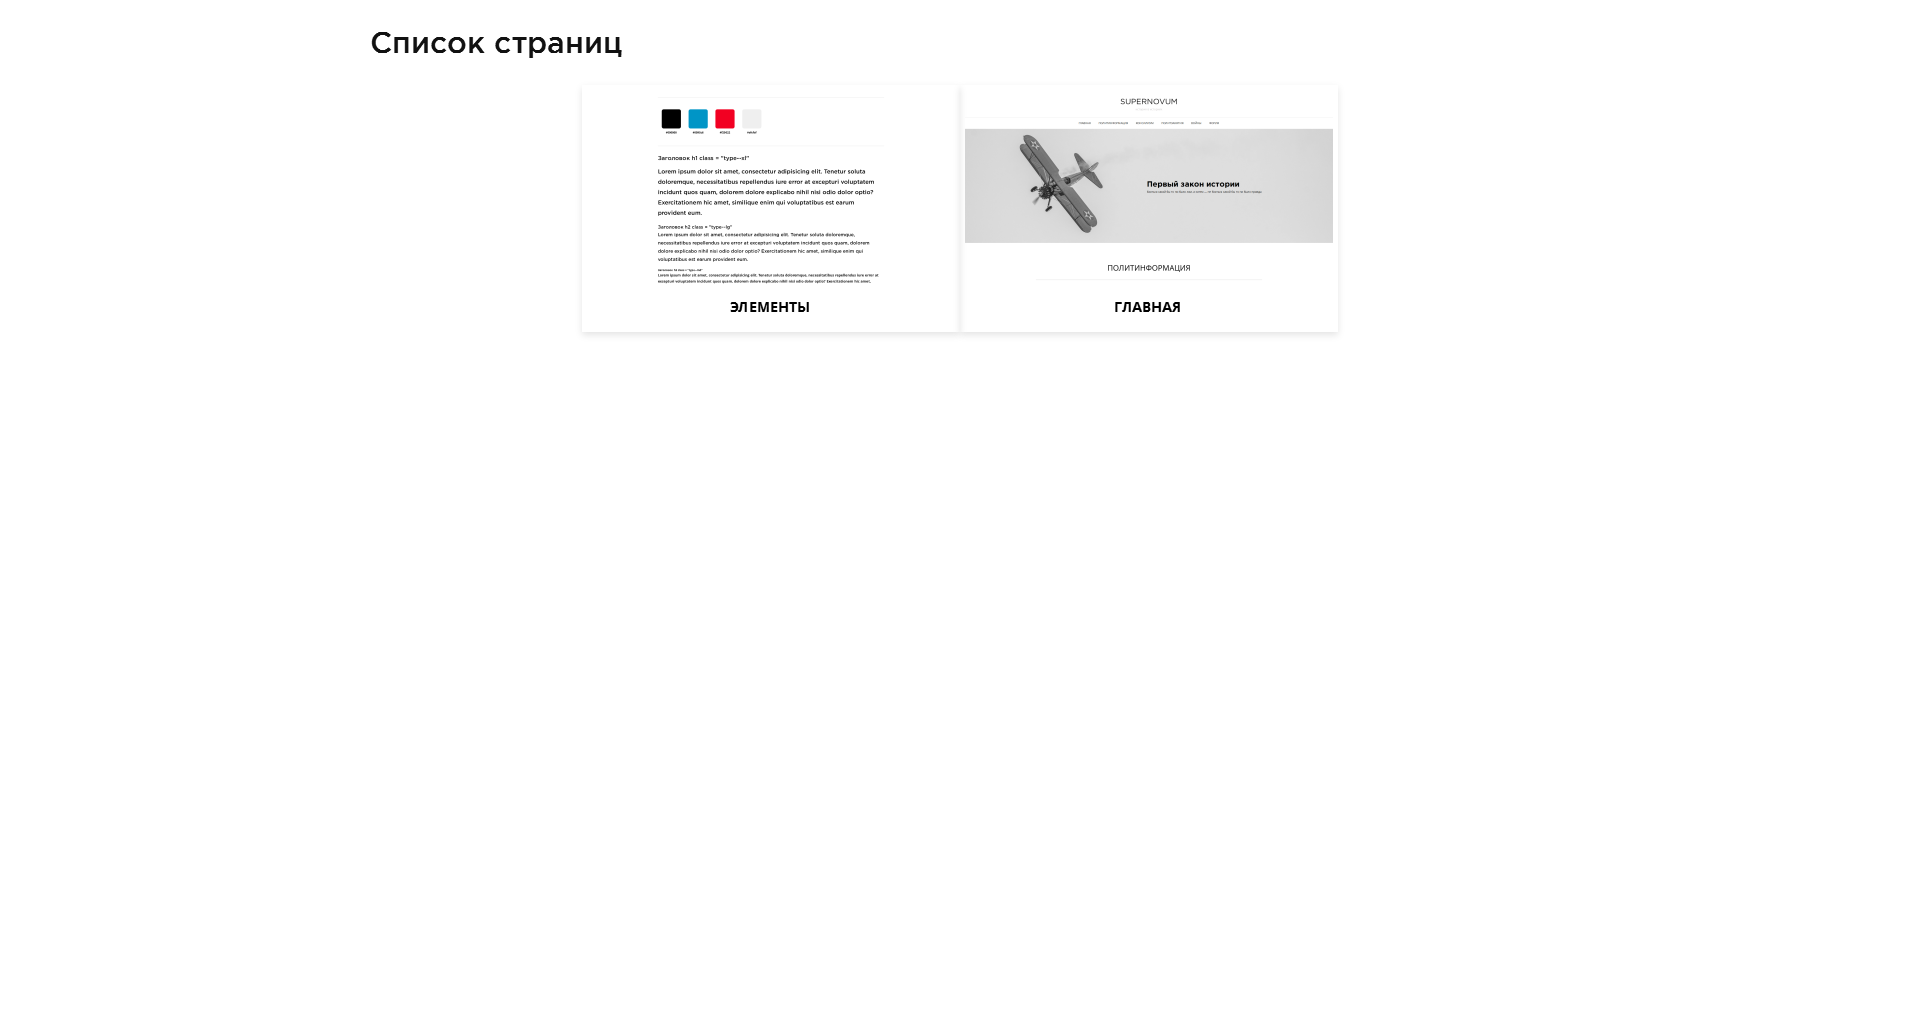
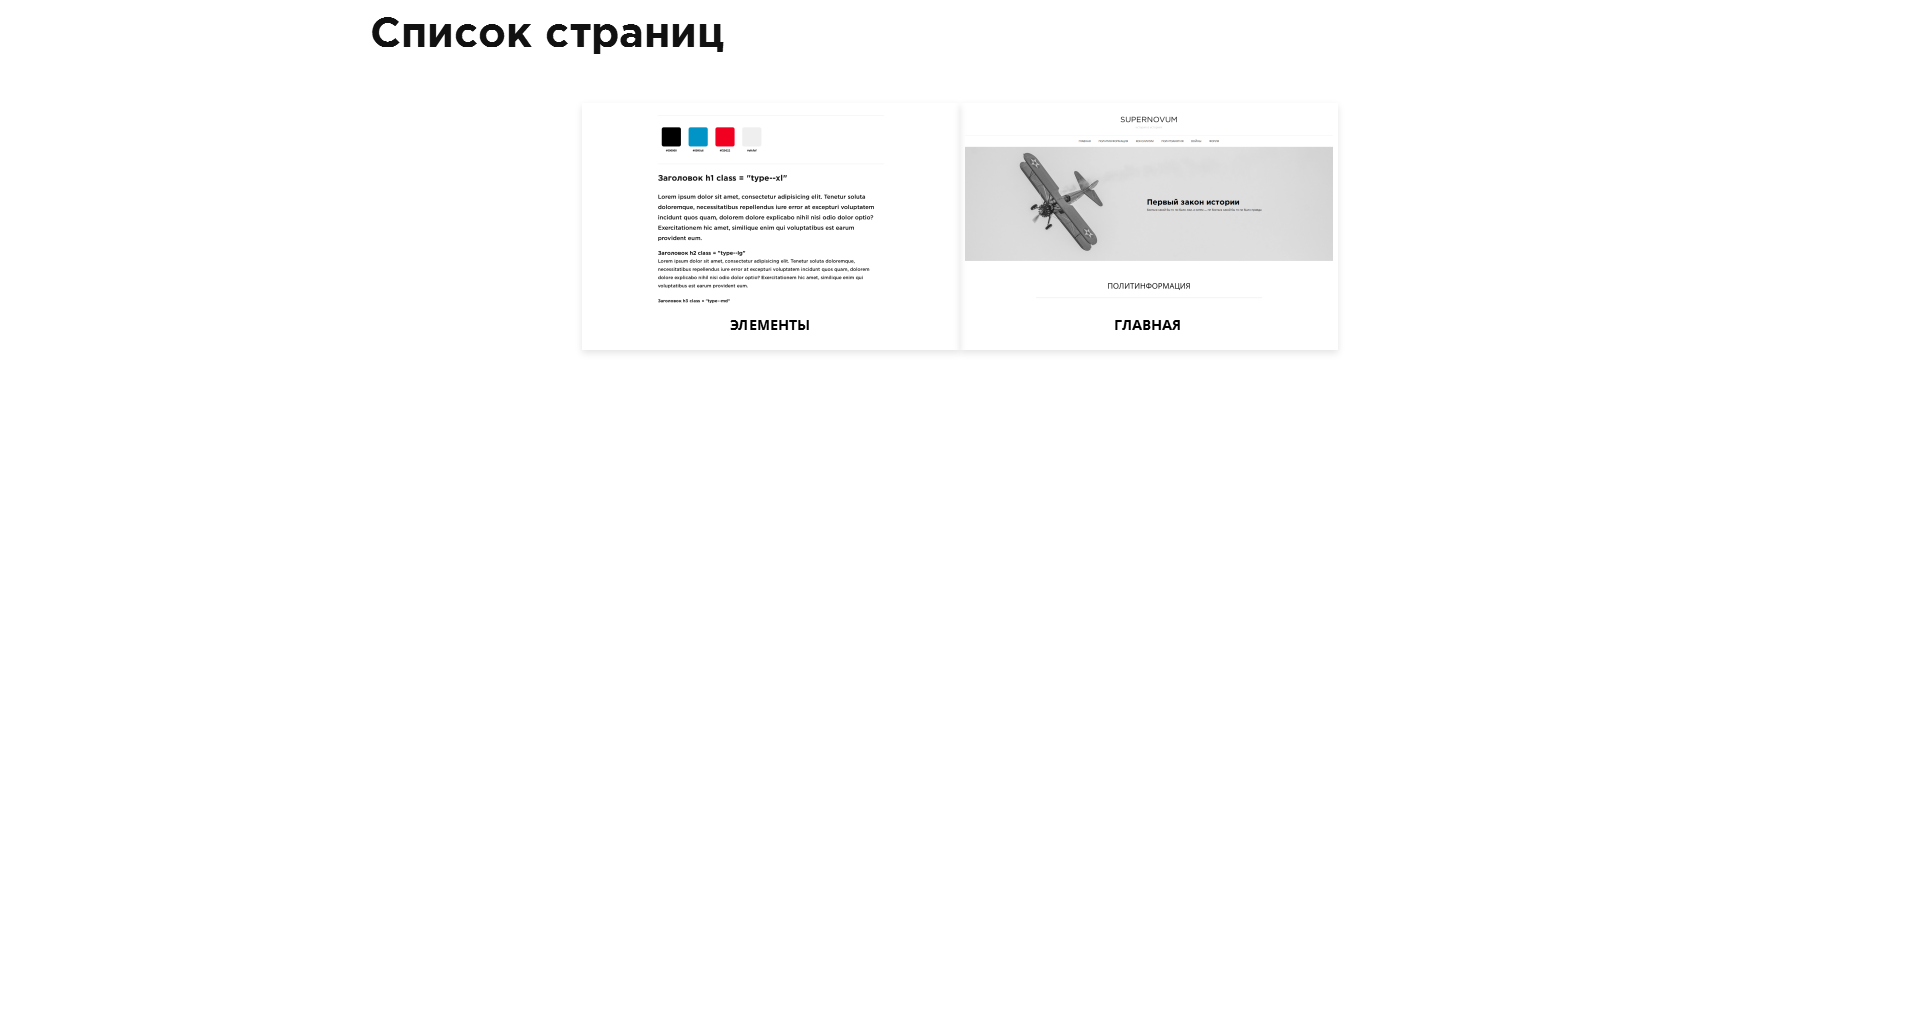
fix top menu

Changed region(s): [[0.5, 0.0938, 0.7188, 0.3438], [0.3438, 0.0938, 0.4688, 0.3438], [0.1875, 0.0, 0.375, 0.0625]]

diff --git a/app/css/style.css b/app/css/style.css
@@ -438,14 +438,12 @@ h4 {
   }
 }
 .type--main,
-h3,
 p,
 body {
   font-size: 14px;
 }
 @media only screen and (max-width: 768px) {
   .type--main,
-  h3,
   p,
   body {
     font-size: 12px;
@@ -459,41 +457,69 @@ body {
     font-size: 15px;
   }
 }
-.type--lg,
-h2 {
+.type--lg {
   font-size: 24px;
   font-weight: 500;
   font-family: "Gotham";
 }
 @media only screen and (max-width: 768px) {
-  .type--lg,
-  h2 {
+  .type--lg {
     font-size: 16px;
   }
 }
-.type--xl,
-h1 {
+.type--xl {
   font-size: 30px;
   font-weight: 500;
   font-family: "Gotham";
 }
 @media only screen and (max-width: 768px) {
-  .type--xl,
-  h1 {
+  .type--xl {
     font-size: 20px;
   }
 }
 .type--bold {
   font-weight: bold;
 }
-h1 {
-  color: #111;
-}
-h2 {
-  color: #111;
-}
+.h,
+h1,
+h2,
 h3 {
   color: #111;
+  margin: 0px;
+  margin-bottom: 40px;
+  font-family: "Gotham";
+}
+@media only screen and (max-width: 768px) {
+  .h,
+  h1,
+  h2,
+  h3 {
+    margin-bottom: 20px;
+  }
+}
+h1 {
+  font-size: 42px;
+}
+@media only screen and (max-width: 768px) {
+  h1 {
+    font-size: 20px;
+  }
+}
+h2 {
+  font-size: 28px;
+}
+@media only screen and (max-width: 768px) {
+  h2 {
+    font-size: 18px;
+  }
+}
+h3 {
+  font-size: 22px;
+}
+@media only screen and (max-width: 768px) {
+  h3 {
+    font-size: 15px;
+  }
 }
 h4 {
   color: #111;
@@ -1262,7 +1288,8 @@ body {
   color: #fff;
   margin-bottom: 40px;
 }
-.forum-filter {
+.forum-filter,
+.header-baner-filter {
   position: absolute;
   top: 0;
   left: 0;
@@ -1326,6 +1353,157 @@ body {
   .footer-title-sub br {
     display: none;
   }
+}
+.content {
+  display: -webkit-box;
+  display: -webkit-flex;
+  display: -ms-flexbox;
+  display: flex;
+  margin-bottom: 80px;
+  -webkit-box-align: start;
+  -webkit-align-items: flex-start;
+      -ms-flex-align: start;
+          align-items: flex-start;
+  -webkit-box-pack: justify;
+  -webkit-justify-content: space-between;
+      -ms-flex-pack: justify;
+          justify-content: space-between;
+}
+@media only screen and (max-width: 768px) {
+  .content {
+    margin: 30px 0;
+  }
+}
+.bread-crumbs-wrap {
+  margin: 40px 0;
+}
+@media only screen and (max-width: 768px) {
+  .bread-crumbs-wrap {
+    margin: 20px 0;
+  }
+}
+.nav-links {
+  display: -webkit-box;
+  display: -webkit-flex;
+  display: -ms-flexbox;
+  display: flex;
+  -webkit-box-pack: center;
+  -webkit-justify-content: center;
+      -ms-flex-pack: center;
+          justify-content: center;
+}
+.page-number,
+.page-numbers {
+  border: 1px solid #dfdfdf;
+  width: 45px;
+  height: 45px;
+  display: -webkit-box;
+  display: -webkit-flex;
+  display: -ms-flexbox;
+  display: flex;
+  -webkit-box-pack: center;
+  -webkit-justify-content: center;
+      -ms-flex-pack: center;
+          justify-content: center;
+  -webkit-box-align: center;
+  -webkit-align-items: center;
+      -ms-flex-align: center;
+          align-items: center;
+  margin-right: 15px;
+  text-align: center;
+}
+@media only screen and (max-width: 768px) {
+  .page-number,
+  .page-numbers {
+    width: 30px;
+    height: 30px;
+  }
+}
+span.page-numbers.current {
+  background: #000;
+  color: #fff;
+  border-color: #111;
+}
+.page-numbers.next,
+.page-numbers.prev {
+  padding: 10px;
+  height: 45px;
+  width: auto !important;
+}
+@media only screen and (max-width: 768px) {
+  .page-numbers.next,
+  .page-numbers.prev {
+    height: 30px;
+  }
+}
+.star__rating img {
+  display: inline-block !important;
+}
+.forum--single {
+  margin-bottom: -100px;
+}
+@media only screen and (max-width: 768px) {
+  .forum--single {
+    margin-bottom: -40px;
+  }
+}
+.content-block {
+  width: 100%;
+}
+.content-block img {
+  -webkit-filter: grayscale(100%);
+          filter: grayscale(100%);
+  margin: 20px auto;
+}
+.content-block p {
+  font-size: 16px;
+  margin-bottom: 40px;
+}
+@media only screen and (max-width: 768px) {
+  .content-block p {
+    font-size: 14px;
+    margin-bottom: 20px;
+  }
+}
+.header-baner {
+  display: -webkit-box;
+  display: -webkit-flex;
+  display: -ms-flexbox;
+  display: flex;
+  -webkit-box-pack: center;
+  -webkit-justify-content: center;
+      -ms-flex-pack: center;
+          justify-content: center;
+  -webkit-box-align: center;
+  -webkit-align-items: center;
+      -ms-flex-align: center;
+          align-items: center;
+  background: url("../img/baner-2.jpg") no-repeat;
+  background-size: cover;
+  background-repeat: no-repeat;
+  background-position: center center;
+  -webkit-filter: grayscale(100%);
+          filter: grayscale(100%);
+  position: relative;
+  padding: 18% 10px;
+  width: 100%;
+  background-attachment: fixed;
+}
+.header-baner h1 {
+  color: #fff;
+  z-index: 10;
+  text-transform: uppercase;
+  margin-bottom: 0;
+  text-align: center;
+}
+.footer-single .footer {
+  margin-top: 0;
+}
+.footer-single .forum {
+  margin-bottom: 0;
+}
+.catalog {
+  margin-top: 80px;
 }
 /* block footer*/
 /*block footer end */

diff --git a/app/elements.html b/app/elements.html
@@ -24,7 +24,6 @@
 		<!--endbuild-->
 		<link rel="stylesheet" href="css/style.css" />
 		<link rel="stylesheet" href="css/style-edit.css" />
-		<link href="https://fonts.googleapis.com/css?family=PT+Sans:400,700&amp;amp;subset=cyrillic" rel="stylesheet" />
 	</head>
 	<!-- mixin nameMixin()-->
 	<!-- - var args = Array.prototype.slice.call(arguments)-->

diff --git a/app/index.html b/app/index.html
@@ -24,7 +24,6 @@
 		<!--endbuild-->
 		<link rel="stylesheet" href="css/style.css" />
 		<link rel="stylesheet" href="css/style-edit.css" />
-		<link href="https://fonts.googleapis.com/css?family=PT+Sans:400,700&amp;amp;subset=cyrillic" rel="stylesheet" />
 	</head>
 	<!-- mixin nameMixin()-->
 	<!-- - var args = Array.prototype.slice.call(arguments)-->

diff --git a/app/main.html b/app/main.html
@@ -24,7 +24,6 @@
 		<!--endbuild-->
 		<link rel="stylesheet" href="css/style.css" />
 		<link rel="stylesheet" href="css/style-edit.css" />
-		<link href="https://fonts.googleapis.com/css?family=PT+Sans:400,700&amp;amp;subset=cyrillic" rel="stylesheet" />
 	</head>
 	<!-- mixin nameMixin()-->
 	<!-- - var args = Array.prototype.slice.call(arguments)-->

diff --git a/app/js/script.js b/app/js/script.js
@@ -11,8 +11,12 @@ $(document).ready(function(){
 		$(document).on("click", function () {
 				$(toggleEl).hide();
 		});
+	};
+
+	if($(window).width() < 768){
+		hideToggle('.menu-toggle','.menu-cont');
 	}
-	hideToggle('.menu-toggle','.menu-cont');
+
 
 	/* ###### For only ies  ######*/
 	//if(/MSIE \d|Trident.*rv:/.test(navigator.userAgent)){

diff --git a/gulpfile.js b/gulpfile.js
@@ -454,8 +454,8 @@ gulp.task('build:ftp',function(){
 				'copy:css',
 				'min:css',
 				'min:js',
-				'screenshot',
-				'img',
+				//'screenshot',
+				//'img',
 				//'svg',
 				'make',
 				//'zip',
